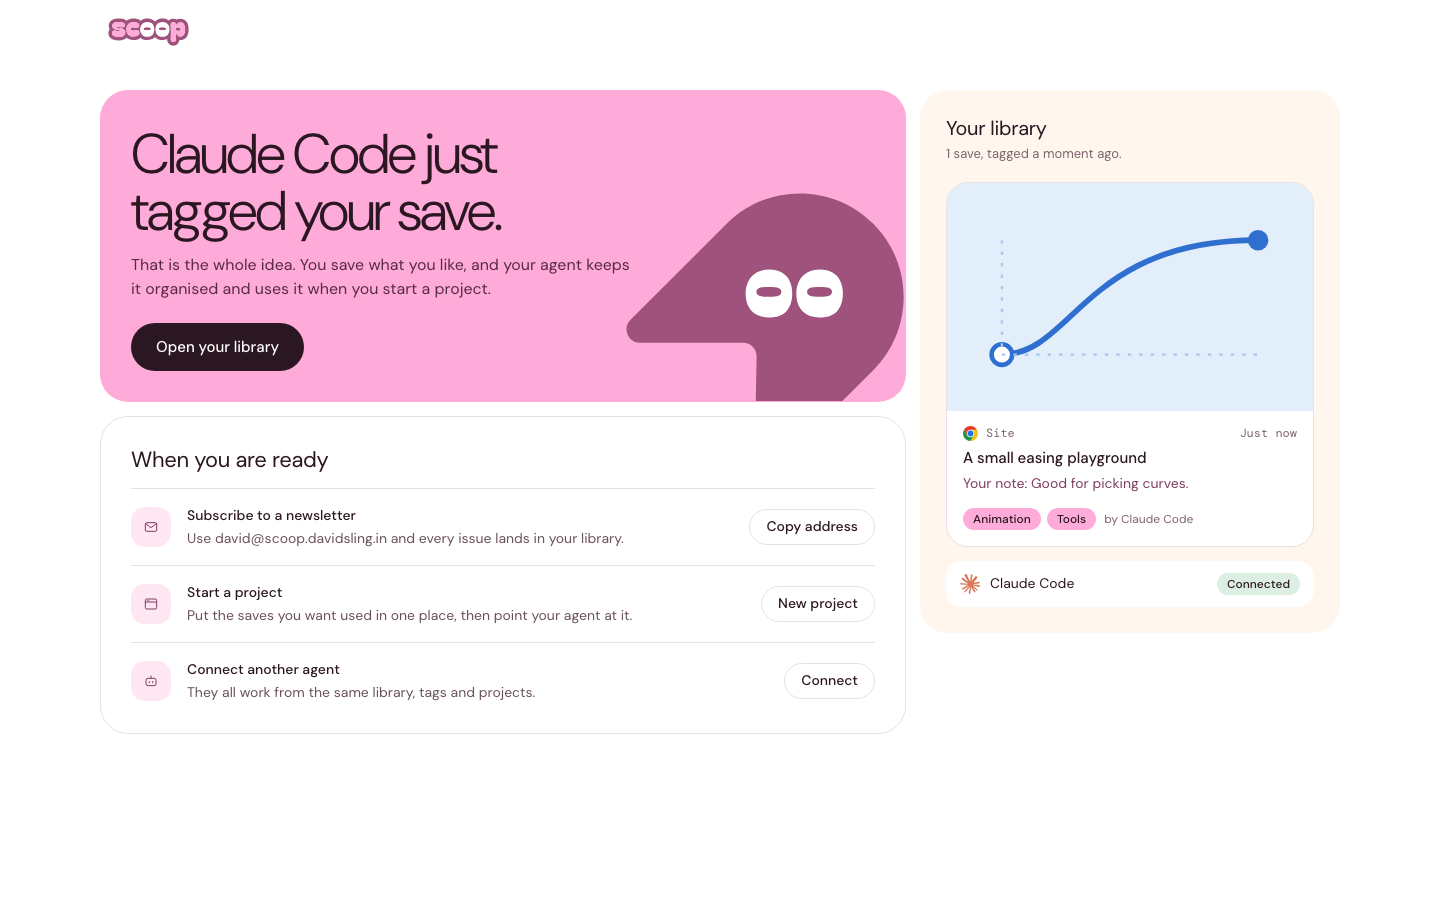
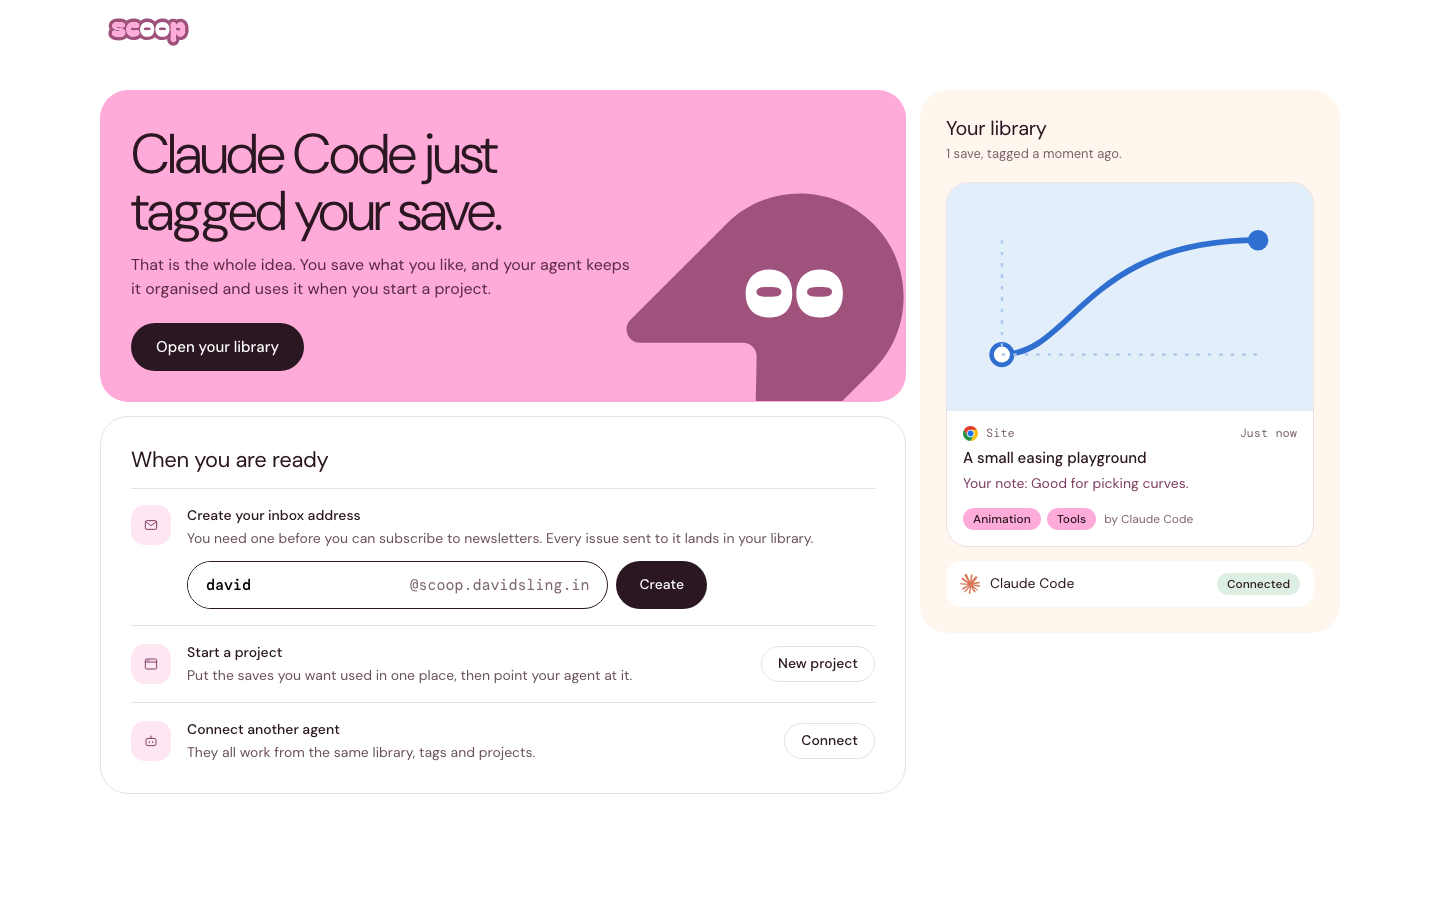
feat: create the inbox address after setup, not at sign-up

Changed region(s): [[0.0938, 0.56, 0.5938, 0.84], [0.5312, 0.6533, 0.5938, 0.7778], [0.5625, 0.8089, 0.5938, 0.84]]

diff --git a/mockups/onboarding.html b/mockups/onboarding.html
@@ -57,11 +57,6 @@
       <h2>Create your library</h2>
       <p class="lead">It takes about three minutes to save your first thing and connect an agent.</p>
       <div class="field">
-        <label for="u">Pick a name</label>
-        <div class="pick" id="pick"><input id="u" type="text" value="david" autocomplete="off" spellcheck="false" aria-describedby="uh"><span>@scoop.davidsling.in</span></div>
-        <div class="okline" id="uh" aria-live="polite"><svg class="i"><use href="#i-tick"/></svg><span>Available. This becomes your agent's address, for newsletters.</span></div>
-      </div>
-      <div class="field">
         <label for="e">Your email</label>
         <input id="e" type="email" placeholder="you@example.com" autocomplete="email" aria-describedby="eh">
         <div class="hint" id="eh">We send a link to sign in. There is no password.</div>
@@ -138,7 +133,7 @@
       <section class="tile">
         <div class="hd"><h2>When you are ready</h2></div>
         <ul class="next">
-          <li><span class="ic"><svg class="i"><use href="#i-mail"/></svg></span><div><div class="t">Subscribe to a newsletter</div><p>Use <span id="addr"></span> and every issue lands in your library.</p></div><button class="btn outline" type="button" id="copy3"><span>Copy address</span></button></li>
+          <li id="inbox"></li>
           <li><span class="ic"><svg class="i"><use href="#i-page"/></svg></span><div><div class="t">Start a project</div><p>Put the saves you want used in one place, then point your agent at it.</p></div><a class="btn outline" href="projects.html">New project</a></li>
           <li><span class="ic"><svg class="i"><use href="#i-agent"/></svg></span><div><div class="t">Connect another agent</div><p>They all work from the same library, tags and projects.</p></div><a class="btn outline" href="agents.html">Connect</a></li>
         </ul>
@@ -165,7 +160,7 @@
   };
   var $ = function (s) { return document.querySelector(s); };
   var $$ = function (s) { return Array.prototype.slice.call(document.querySelectorAll(s)); };
-  var fresh = function () { return { screen: 'join', agent: 'claude', saved: false, connected: false, tagged: false, pend: [false, false, false] }; };
+  var fresh = function () { return { screen: 'join', addr: '', agent: 'claude', saved: false, connected: false, tagged: false, pend: [false, false, false] }; };
   var st = fresh(), timers = [], shown = '', lastStep = -1;
   var later = function (fn, ms) { timers.push(setTimeout(fn, ms)); };
   var cap = function (s) { return s.charAt(0).toUpperCase() + s.slice(1); };
@@ -209,7 +204,6 @@
     w[1].textContent = (st.pend[1] ? 'Copied. ' : '') + 'Waiting for ' + a.name + ' to connect';
     w[2].textContent = st.pend[2] ? 'Copied. Waiting for the first tag' : 'Waiting for the first tag';
     $('#add').disabled = st.pend[0];
-    $('#addr').textContent = name() + '@scoop.davidsling.in';
     paintLive($('#live'), false, popSel); paintLive($('#live2'), true);
     if (st.screen === 'setup' && step !== lastStep && step < 3) {
       var h = $('.step.now h2'); if (h && shown === 'setup') h.focus({ preventScroll: true });
@@ -219,7 +213,6 @@
     lastStep = step; shown = st.screen;
   }
 
-  function name() { return $('#u').value.trim().toLowerCase() || 'you'; }
   function copied(btn, text) {
     try { if (navigator.clipboard) navigator.clipboard.writeText(text).catch(function () {}); } catch (e) {}
     var s = btn.querySelector('span'), was = s.textContent; s.textContent = 'Copied';
@@ -228,15 +221,8 @@
   function saveArrives() { st.pend[0] = true; render(); later(function () { st.saved = true; render('.save'); }, 1500); }
 
   // Sign up
-  $('#u').addEventListener('input', function () {
-    var v = this.value.trim(), ok = /^[a-z0-9][a-z0-9-]{1,29}$/.test(v);
-    $('#pick').classList.toggle('bad', !ok);
-    $('#uh').className = ok ? 'okline' : 'err';
-    $('#uh').innerHTML = ok ? '<svg class="i"><use href="#i-tick"/></svg><span>Available. This becomes your agent\'s address, for newsletters.</span>' : 'Use 2 to 30 lowercase letters, numbers or dashes.';
-  });
   $('#f').addEventListener('submit', function (ev) {
     ev.preventDefault();
-    if ($('#pick').classList.contains('bad')) { $('#u').focus(); return; }
     var e = $('#e'), ok = /^[^@\s]+@[^@\s]+\.[^@\s]+$/.test(e.value.trim());
     e.setAttribute('aria-invalid', !ok);
     $('#eh').className = ok ? 'hint' : 'err';
@@ -247,7 +233,7 @@
   });
   $('#change').addEventListener('click', function (ev) { ev.preventDefault(); $('#check').hidden = true; $('#f').hidden = false; $('#e').focus(); });
   $('#again').addEventListener('click', function (ev) { ev.preventDefault(); this.textContent = 'Sent again'; var t = this; setTimeout(function () { t.textContent = 'Send it again'; }, 1600); });
-  var enter = function () { if ($('#pick').classList.contains('bad')) { $('#u').focus(); return; } st.screen = 'setup'; render(); };
+  var enter = function () { st.screen = 'setup'; render(); };
   $('#open').addEventListener('click', enter);
   $('#gh').addEventListener('click', enter);
 
@@ -272,24 +258,53 @@
     st.pend[2] = true; render();
     later(function () { st.tagged = true; render('#tg'); later(function () { st.screen = 'done'; render(); }, 1500); }, 1800);
   });
-  $('#copy3').addEventListener('click', function () { copied(this, $('#addr').textContent); });
+
+  // The inbox address is optional: it is made here, after setup, not at sign-up.
+  var MAIL = '<span class="ic"><svg class="i"><use href="#i-mail"/></svg></span>', D = '@scoop.davidsling.in';
+  function paintInbox(edit) {
+    var li = $('#inbox');
+    if (st.addr && !edit) {
+      li.innerHTML = MAIL + '<div><div class="t">Your inbox address</div><p><span class="mono" id="addr">' + st.addr + D + '</span><br>Subscribe to newsletters with it and every issue lands in your library.</p></div>' +
+        '<span class="acts"><button class="btn text" type="button" data-do="change">Change</button><button class="btn outline" type="button" data-do="copy"><span>Copy address</span></button></span>';
+      return;
+    }
+    var guess = st.addr || ($('#e').value.split('@')[0] || '').toLowerCase().replace(/[^a-z0-9-]/g, '');
+    li.innerHTML = MAIL + '<div><div class="t">Create your inbox address</div><p>You need one before you can subscribe to newsletters. Every issue sent to it lands in your library.</p>' +
+      '<form class="mk" novalidate><div class="pick"><input id="u" type="text" aria-label="Name for your address" aria-describedby="uh" placeholder="yourname" autocomplete="off" spellcheck="false" value="' + guess + '"><span>' + D + '</span></div><button class="btn solid" type="submit">Create</button></form>' +
+      '<div class="err" id="uh" aria-live="polite"></div></div>';
+  }
+  $('#inbox').addEventListener('submit', function (ev) {
+    ev.preventDefault();
+    var u = $('#u'), v = u.value.trim().toLowerCase(), ok = /^[a-z0-9][a-z0-9-]{1,29}$/.test(v);
+    u.parentNode.classList.toggle('bad', !ok);
+    $('#uh').textContent = ok ? '' : 'Use 2 to 30 lowercase letters, numbers or dashes.';
+    if (!ok) { u.focus(); return; }
+    st.addr = v; paintInbox(); $('#inbox [data-do="copy"]').focus();
+  });
+  $('#inbox').addEventListener('click', function (ev) {
+    var b = ev.target.closest('[data-do]'); if (!b) return;
+    if (b.dataset.do === 'copy') copied(b, st.addr + D);
+    else { paintInbox(true); $('#u').focus(); }
+  });
 
   $('#restart').addEventListener('click', function (ev) {
     ev.preventDefault(); timers.forEach(clearTimeout); timers = []; st = fresh();
     $('#f').hidden = false; $('#check').hidden = true; $('#paste').hidden = true; $('#alt').setAttribute('aria-expanded', false);
-    render(); window.scrollTo(0, 0);
+    paintInbox(); render(); window.scrollTo(0, 0);
   });
 
   // Jump straight to a state with #at=check, 1, 2, 3 or done. #auto clicks the whole path (used to test it).
   var m = /at=(\w+)/.exec(location.hash), at = m && m[1];
   if (at === 'check') { $('#e').value = 'you@example.com'; $('#f').requestSubmit(); }
   if (at && at !== 'check') { st.screen = at === 'done' ? 'done' : 'setup'; st.saved = at !== '1'; st.connected = at === '3' || at === 'done'; st.tagged = at === 'done'; }
-  render();
+  if (/addr/.test(location.hash)) st.addr = 'david';
+  paintInbox(); render();
   if (location.hash === '#auto') {
     $('#e').value = 'you@example.com'; $('#f').requestSubmit(); $('#open').click();
     setTimeout(function () { $('#add').click(); }, 300);
     setTimeout(function () { document.querySelector('[data-a="codex"]').click(); $('#copy1').click(); }, 2200);
     setTimeout(function () { $('#copy2').click(); }, 4500);
+    setTimeout(function () { $('#u').value = 'Bad Name'; $('#inbox form').requestSubmit(); document.title = $('#uh').textContent ? 'err-ok' : 'err-missing'; $('#u').value = 'david'; $('#inbox form').requestSubmit(); }, 9000);
   }
 })();
 </script>

diff --git a/mockups/setup-done.html b/mockups/setup-done.html
@@ -56,7 +56,7 @@
       <section class="tile">
         <div class="hd"><h2>When you are ready</h2></div>
         <ul class="next">
-          <li><span class="ic"><svg class="i"><use href="#i-mail"/></svg></span><div><div class="t">Subscribe to a newsletter</div><p>Use david@scoop.davidsling.in and every issue lands in your library.</p></div><a class="btn outline" href="sources.html">Copy address</a></li>
+          <li id="inbox"><span class="ic"><svg class="i"><use href="#i-mail"/></svg></span><div><div class="t">Create your inbox address</div><p>You need one before you can subscribe to newsletters. Every issue sent to it lands in your library.</p><form class="mk" onsubmit="return false"><div class="pick"><input type="text" aria-label="Name for your address" placeholder="yourname" value="david"><span>@scoop.davidsling.in</span></div><button class="btn solid" type="submit">Create</button></form></div></li>
           <li><span class="ic"><svg class="i"><use href="#i-page"/></svg></span><div><div class="t">Start a project</div><p>Put the saves you want used in one place, then point your agent at it.</p></div><a class="btn outline" href="projects.html">New project</a></li>
           <li><span class="ic"><svg class="i"><use href="#i-agent"/></svg></span><div><div class="t">Connect another agent</div><p>They all work from the same library, tags and projects.</p></div><a class="btn outline" href="agents.html">Connect</a></li>
         </ul>

diff --git a/mockups/onboarding.css b/mockups/onboarding.css
@@ -130,3 +130,15 @@
 @keyframes pop { from { opacity: 0; transform: scale(0.96); } }
 @media (prefers-reduced-motion: reduce) { .enter, .pop { animation-duration: 120ms; } @keyframes enter { from { opacity: 0; } } @keyframes pop { from { opacity: 0; } } }
 @media (max-width: 720px) { .paste { flex-direction: column; } }
+
+/* Inbox address, made after setup */
+.next li > div { flex: 1; min-width: 0; }
+.next .mono { font: 500 14px var(--mono); color: var(--ink); }
+.next .acts { display: flex; align-items: center; gap: 6px; flex: none; margin-left: auto; }
+.next .acts .btn { margin-left: 0; }
+.mk { display: flex; gap: 8px; margin-top: 12px; max-width: 520px; }
+.mk .pick { flex: 1; min-width: 0; }
+.mk .btn { min-height: 48px; padding: 0 22px; margin-left: 0; flex: none; }
+.next .err { margin-top: 6px; font-size: 13px; color: var(--warn); }
+.next li#inbox { align-items: flex-start; }
+@media (max-width: 720px) { .mk { flex-direction: column; } .next li { flex-wrap: wrap; } }

diff --git a/mockups/signup.html b/mockups/signup.html
@@ -55,12 +55,6 @@
     <p class="lead">It takes about three minutes to save your first thing and connect an agent.</p>
 
     <div class="field">
-      <label for="u">Pick a name</label>
-      <div class="pick"><input id="u" type="text" value="david" autocomplete="off"><span>@scoop.davidsling.in</span></div>
-      <div class="okline"><svg class="i"><use href="#i-tick"/></svg>Available. This becomes your agent's address, for newsletters.</div>
-    </div>
-
-    <div class="field">
       <label for="e">Your email</label>
       <input id="e" type="email" placeholder="you@example.com" autocomplete="email">
       <div class="hint">We send a link to sign in. There is no password.</div>
